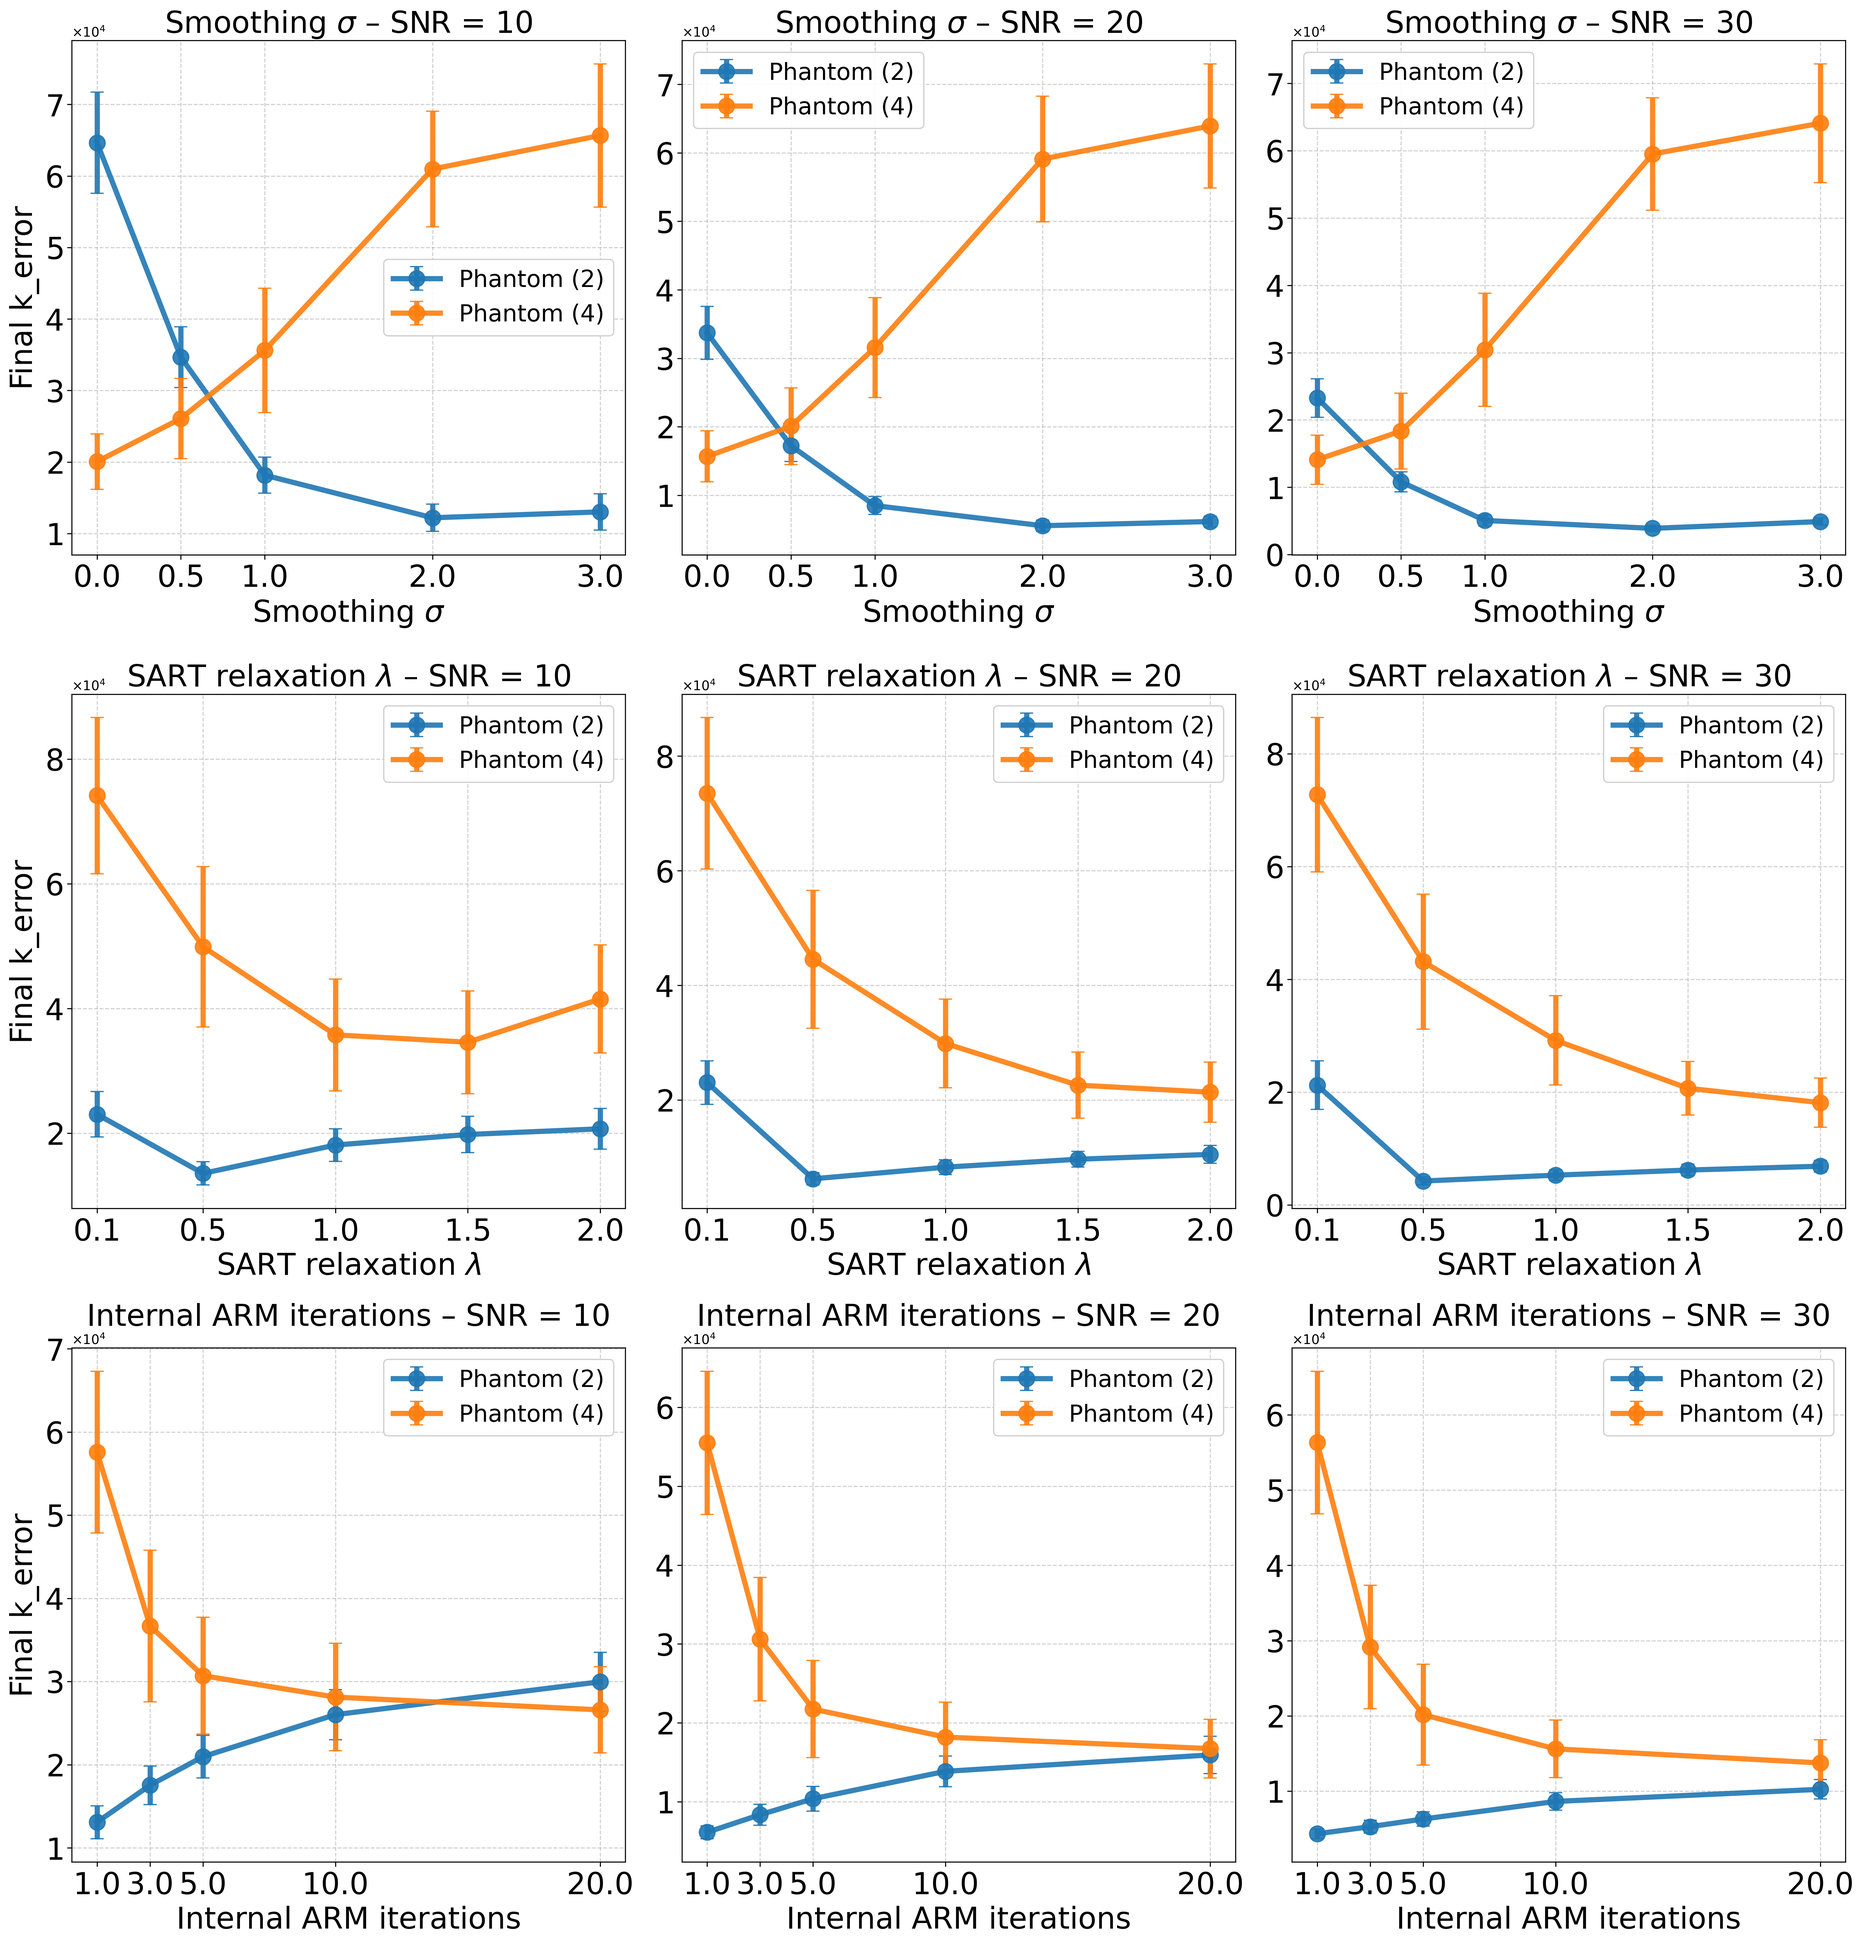
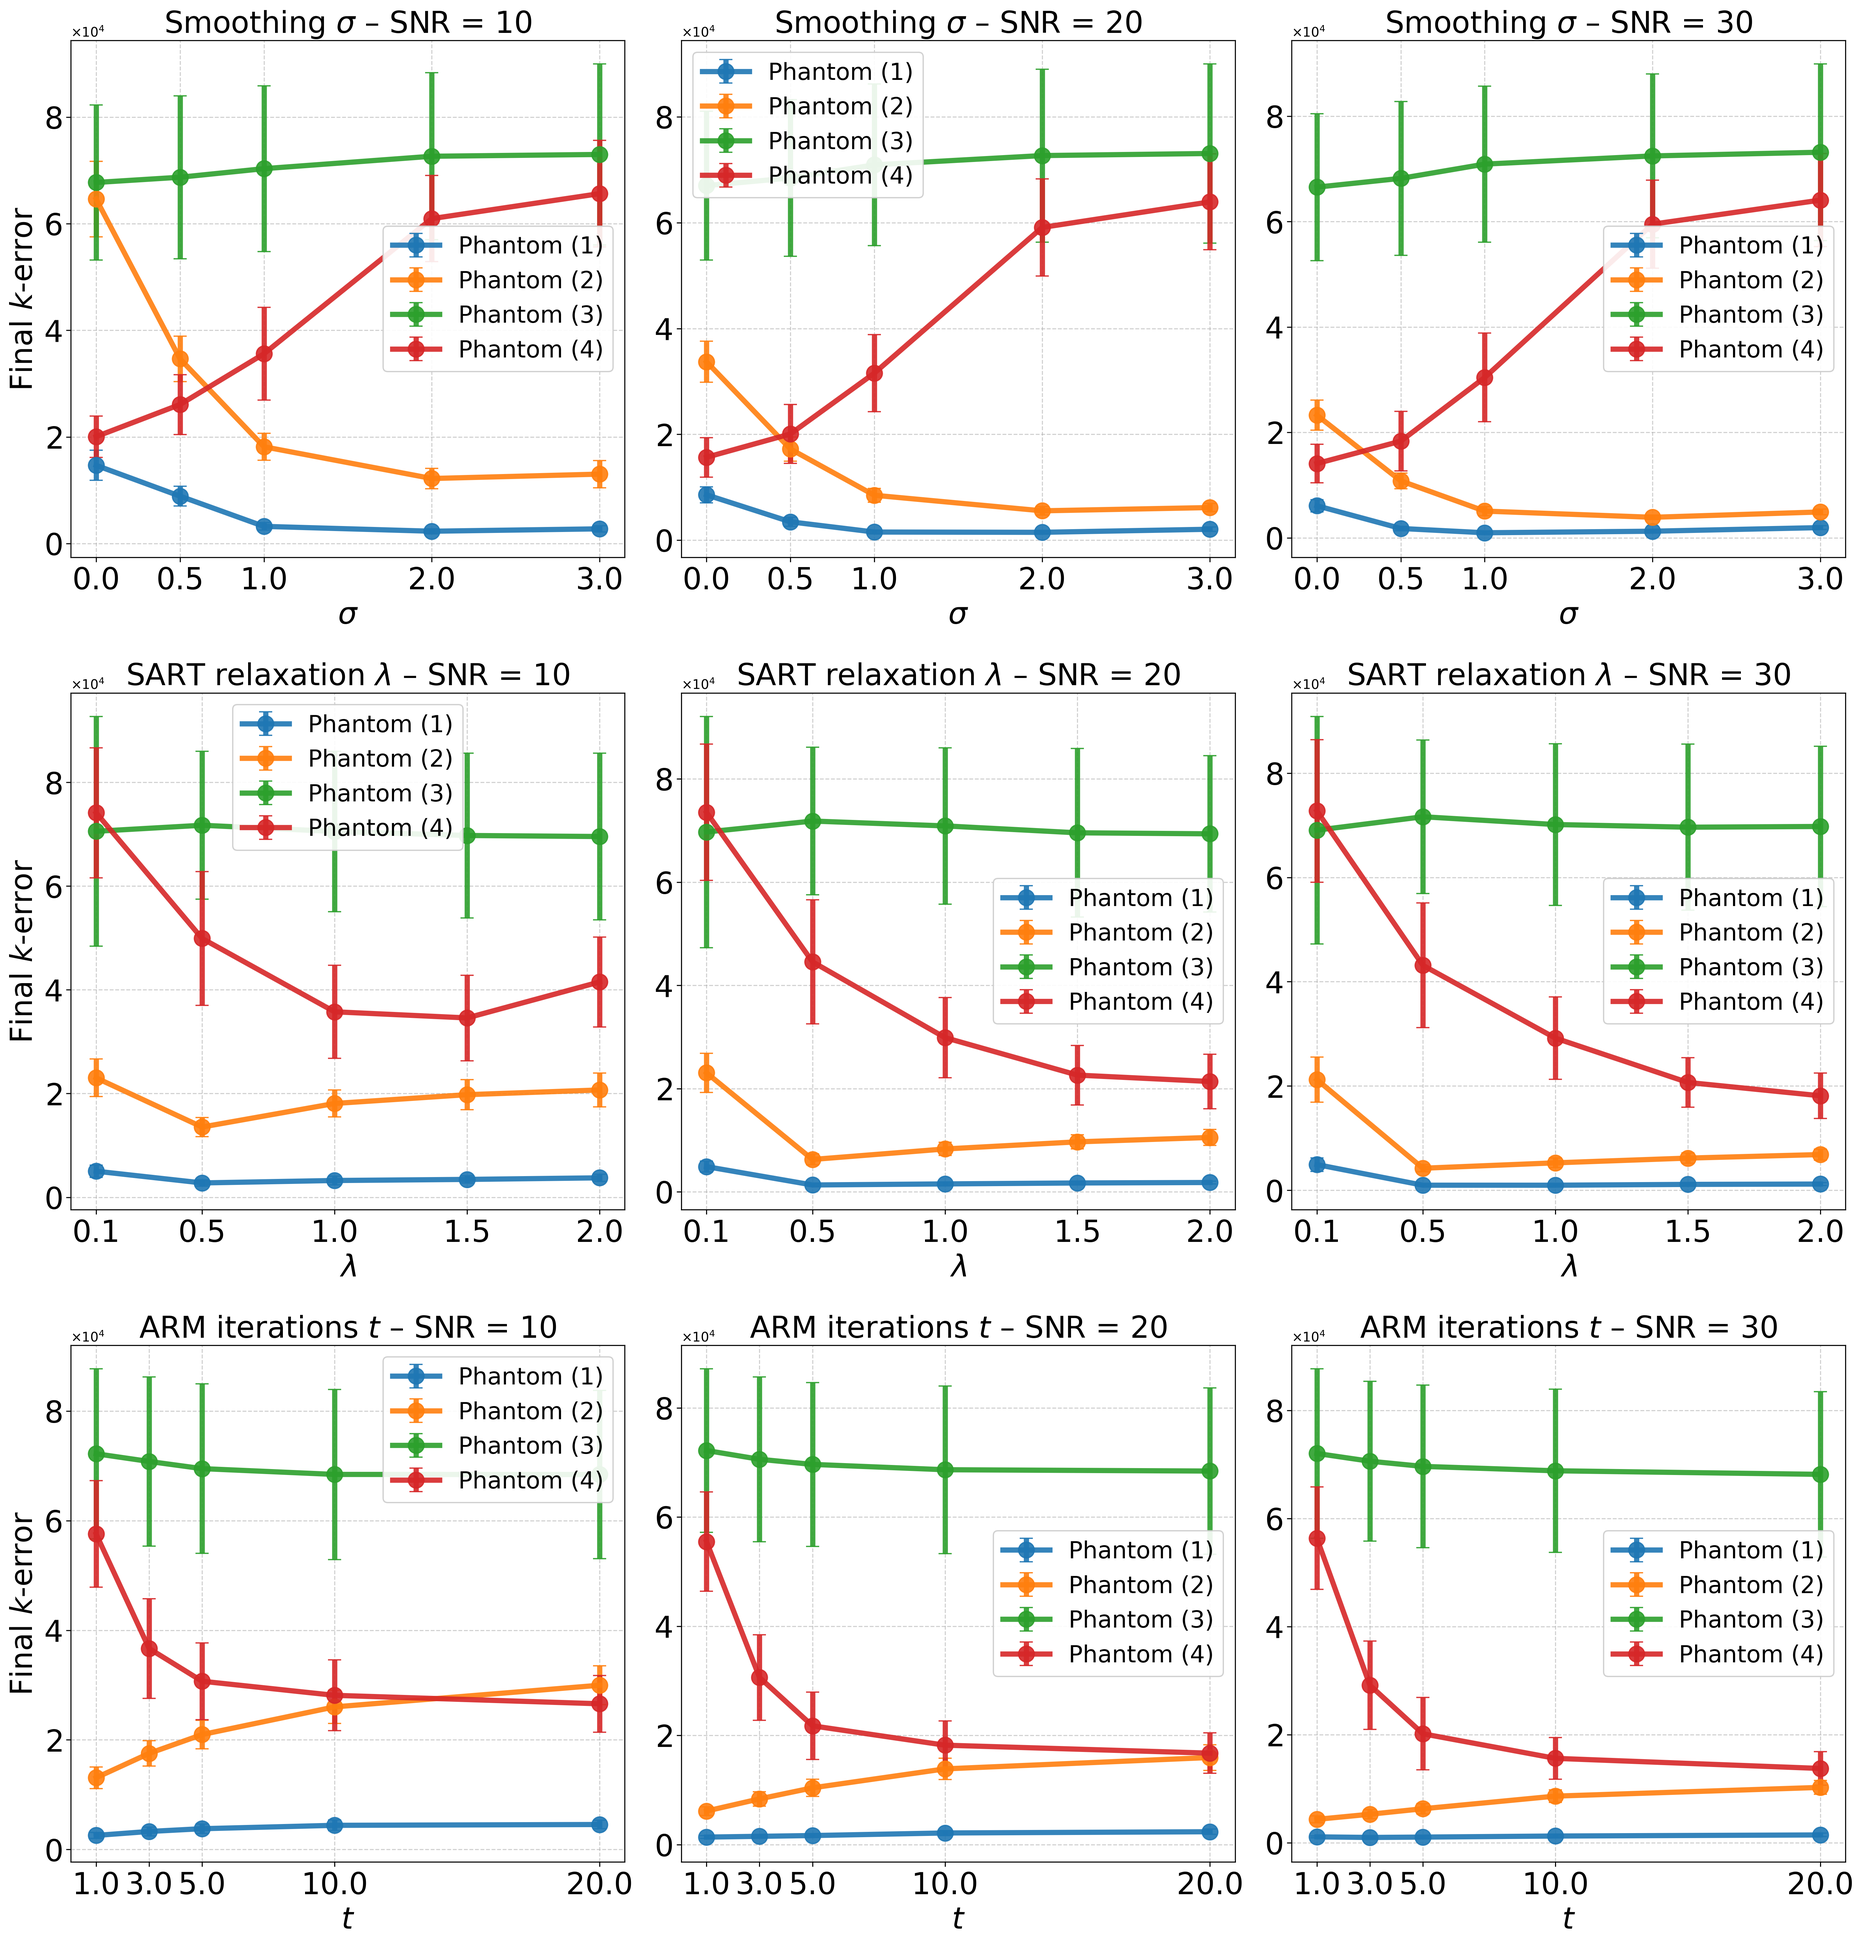
some changes

diff --git a/src/DART/ReconstructionAlgorithms.py b/src/DART/ReconstructionAlgorithms.py
@@ -122,98 +122,3 @@ def SART(sino_id: int,
         astra.projector.delete(local_projector_id)
 
     return reconstruction_img
-
-
-def SIRT(sino_id: int,
-         vol_geom: dict[str, dict],
-         projector_id: int,
-         min_constraint: int = 0,
-         max_constraint: int = 255,
-         vol_data: float | np.ndarray = 0,
-         iters: int = 200,
-         mask=None,
-         use_gpu: bool = False) -> np.ndarray:
-
-    rec_type = "SIRT_CUDA" if use_gpu else "SIRT"
-
-    rec_id = astra.data2d.create("-vol", vol_geom, data=vol_data)
-    alg_cfg: dict[str, Any] = astra.astra_dict(rec_type)
-    alg_cfg["ProjectorId"] = projector_id 
-    alg_cfg["ProjectionDataId"] = sino_id
-    alg_cfg["ReconstructionDataId"] = rec_id
-
-    if mask is None:
-        mask = np.ones((vol_geom['GridRowCount'], vol_geom['GridColCount'])) #type: ignore
-    mask_id = astra.data2d.create('-vol', vol_geom, mask)
-    alg_cfg['option'] = {
-        'ReconstructionMaskId': mask_id,
-        'MaxConstraint': max_constraint,
-        'MinConstraint': min_constraint
-    }
-    # Run
-    algorithm_id = astra.algorithm.create(alg_cfg)
-    astra.algorithm.run(algorithm_id, iters)
-    reconstruction_img = astra.data2d.get(rec_id)
-
-    # Clean up ASTRA objects
-    astra.algorithm.delete(algorithm_id)
-    astra.data2d.delete(rec_id)      
-    astra.data2d.delete(mask_id)
-
-    return reconstruction_img
-
-
-def FBP(vol_geom: dict[str, dict], 
-        sino_id: int, 
-        proj_geom: dict[str, dict],
-        sinogram: np.ndarray,
-        use_gpu: bool = False) -> tuple[int, np.ndarray]:
-
-    sino_id = astra.data2d.create('-sino', proj_geom, data=sinogram)
-    rec_id = astra.data2d.create('-vol', vol_geom, data=0)
-
-    # define FBP configuration parameters
-    alg_cfg: dict[str, Any] = astra.astra_dict('FBP_CUDA' if use_gpu else 'FBP')
-    alg_cfg['ProjectionDataId'] = sino_id 
-    alg_cfg['ReconstructionDataId'] = rec_id
-
-    if not use_gpu:
-        proj_id = astra.create_projector('linear', proj_geom, vol_geom)
-        alg_cfg['ProjectorId'] = proj_id
-
-    algorithm_id = astra.algorithm.create(alg_cfg)
-    astra.algorithm.run(algorithm_id)
-    rec = astra.data2d.get(rec_id)
-
-    astra.algorithm.delete(algorithm_id)
-    astra.data2d.delete(sino_id)
-    return rec_id, rec
-
-if __name__ == "__main__":
-    phantom = np.load("TestPhantoms/phantom_1/0.npy")
-    projector_id, sino_id, sinogram_img, vol_geom, proj_geom = Sinogram(
-                                                                        phantom=phantom,
-                                                                        n_detectors=512,
-                                                                        angles=np.linspace(0, np.pi, 25),
-                                                                        detector_spacing=1,
-                                                                        SNR=None,
-                                                                        )
-
-
-    reconstruction = SART(
-                          sino_id=sino_id,
-                          vol_geom=vol_geom, 
-                          vol_data=0, 
-                          projector_id=projector_id,
-                          iters=50,
-                          relaxation=1,
-                          projection_order="random",
-                          min_constraint=np.min(0),
-                          max_constraint=np.max(255),
-                          use_gpu=False,
-                          proj_geom=proj_geom,
-                          )
-    
-    plt.imshow(reconstruction)
-    plt.axis("off")
-    plt.savefig("SART_reconstruction")

diff --git a/PlotFigures/PlotExperiment1.py b/PlotFigures/PlotExperiment1.py
@@ -4,9 +4,7 @@ import numpy as np
 import matplotlib.pyplot as plt
 from typing import Dict, List, Tuple, Any
 
-# ============================================================================
-# GLOBAL PLOTTING PARAMETERS - Adjust these as needed
-# ============================================================================
+
 # Font sizes
 TITLE_SIZE = 30          # Size for subplot titles
 AXIS_LABEL_SIZE = 30     # Size for x and y axis labels
@@ -32,9 +30,7 @@ BAR_ALPHA = 1            # Transparency of bars
 # Image quality
 DPI = 300                # Resolution for saved figures
 
-# ============================================================================
-# Experiment configuration
-# ============================================================================
+
 BASE_RESULTS_DIR = "./Results"          # where Config.save_dir points to
 OUTPUT_DIR = os.path.join("Results", "Experiment_1")
 os.makedirs(OUTPUT_DIR, exist_ok=True)
@@ -75,9 +71,7 @@ PHANTOM_NAMES ={"phantom_1": 'Phantom (1)',
 PROJECTIONS = [10, 25]
 N_ITERS = 10
 
-# ============================================================================
-# Helper: load results and return the LAST k_error value from each run
-# ============================================================================
+
 def load_results(exp_type: str, param_val: Any, n_proj: int, phantom: str) -> List[float]:
     param_str = "None" if param_val is None else str(param_val)
     folder = os.path.join(BASE_RESULTS_DIR, exp_type, param_str, f"projections_{n_proj}")
@@ -100,9 +94,7 @@ def load_results(exp_type: str, param_val: Any, n_proj: int, phantom: str) -> Li
     
     return final_k_errors
 
-# ============================================================================
-# Plot all experiments in one large figure
-# ============================================================================
+
 def plot_all_experiments_combined():
     n_experiments = len(EXPERIMENTS)
     fig, axes = plt.subplots(n_experiments, 2, 

diff --git a/src/DART/RoundTo.py b/src/DART/RoundTo.py
@@ -2,9 +2,7 @@ import matplotlib.pyplot as plt
 import numpy as np
 import os
 
-from typing import Any
 from numpy.typing import NDArray
-from src.DART.ReconstructionAlgorithms import SIRT
 from src.DART.Sinograms import Sinogram
 from scipy.ndimage import gaussian_filter
 
@@ -41,40 +39,6 @@ def RoundTo(phantom: NDArray, graylevels: NDArray) -> NDArray:
     best_idx = np.argmin(diffs, axis=-1)                   # shape (H, W)
     return graylevels[best_idx]
 
-
-if __name__ == "__main__":
-    phantom_path = os.path.join("Test_phantoms", "Porouse_with_different_density.npz")
-    phantom_arrays = np.load(phantom_path)
-    lst = phantom_arrays.files
-    item = lst[0]
-    phantom = phantom_arrays[item]
-
-    projector_id, sino_id, sinogram_img, vol_geom, proj_geom = Sinogram(
-        phantom=phantom,
-        n_detectors=512,
-        angles=np.linspace(0, np.pi, 180),
-        detector_spacing=1
-        )
-    
-    reconstruction= SIRT(
-                            vol_data=0,
-                            vol_geom=vol_geom,
-                            projector_id=projector_id,
-                            sino_id=sino_id,
-                            min_constraint=0,
-                            max_constraint=255
-                            )
-    
-    np.save("Porouse_with_different_density", reconstruction)
-
-    rounded_recon = RoundTo(reconstruction, graylevels=np.unique(phantom))
-
-    fig, ax = plt.subplots(1, 2)
-    ax[0].imshow(phantom)
-    ax[1].imshow(rounded_recon)
-    ax[0].set_title("Original phantom")
-    ax[1].set_title("Rounded and reconstructed phantom")
-    plt.show()
 
 def ScaleTo(recon: NDArray, low_percentil: int=1, high_percentile: int=99, max_gray: int=255):
     low_val = np.percentile(recon, q=low_percentil)

diff --git a/PlotFigures/PlotExperiment2.py b/PlotFigures/PlotExperiment2.py
@@ -35,8 +35,8 @@ DPI = 300                # Resolution for saved figures
 # ============================================================================
 # Experiment configuration
 # ============================================================================
-BASE_RESULTS_DIR = "./Results2"          # where Config.save_dir points to
-OUTPUT_DIR = os.path.join("Results2", "Experiment_2")
+BASE_RESULTS_DIR = "./Results"          # where Config.save_dir points to
+OUTPUT_DIR = os.path.join("Results", "Experiment_2")
 os.makedirs(OUTPUT_DIR, exist_ok=True)
 
 # SNR values used in Experiment2
@@ -96,9 +96,7 @@ def load_results(exp_type: str, param_val: Any, snr: int, phantom: str) -> List[
             final_k_errors.append(k_error_list[-1])
     return final_k_errors
 
-# ============================================================================
-# Plot all experiments in one large figure
-# ============================================================================
+
 def plot_all_experiments_combined():
     n_experiments = len(EXPERIMENTS)
     fig, axes = plt.subplots(n_experiments, 3, 
@@ -196,9 +194,7 @@ def plot_all_experiments_combined():
     plt.savefig(save_path, dpi=DPI, bbox_inches='tight')
     print(f"Figure saved to {save_path}")
 
-# ============================================================================
-# Main function
-# ============================================================================
+
 def main():
     plot_all_experiments_combined()
 

diff --git a/src/DART/FreePixels.py b/src/DART/FreePixels.py
@@ -32,20 +32,3 @@ def ChooseFreePixels(phantom: np.ndarray, p: float) -> np.ndarray:
     return free_pixel_mask
 
 
-if __name__ == "__main__":
-    phantom_path = os.path.join("Test_phantoms", "multiple_shapes_and_graylevels.npz")
-    phantom_arrays = np.load(phantom_path)
-    lst = phantom_arrays.files
-    item = lst[0]
-    phantom = phantom_arrays[item]
-
-    time0 = time.time()
-    edges = ChooseFreePixels(phantom=phantom, p=0.01)
-    print(f"Free detection took {(time.time() - time0):.3f}s")
-
-    fig, ax = plt.subplots(1, 2)
-    ax[0].imshow(phantom)
-    ax[1].imshow(edges)
-    ax[0].set_title("Originall phantom")
-    ax[1].set_title("Free pixels")
-    plt.show()

diff --git a/src/DART/EdgeDetector.py b/src/DART/EdgeDetector.py
@@ -26,20 +26,3 @@ def EdgeDetection(phantom: np.ndarray) -> np.ndarray:
 
     return max_f != min_f
 
-if __name__ == "__main__":
-    phantom_path = os.path.join("Test_phantoms", "granular_phantom_single_grayvalues.npz")
-    phantom_arrays = np.load(phantom_path)
-    lst = phantom_arrays.files
-    item = lst[0]
-    phantom = phantom_arrays[item]
-    
-    time0 = time.time()
-    edges = EdgeDetection(phantom=phantom)
-    print(f" Edge detection took {(time.time() - time0):.3f}s")
-
-    fig, ax = plt.subplots(1, 2)
-    ax[0].imshow(phantom)
-    ax[1].imshow(edges)
-    ax[0].set_title("Originall phantom")
-    ax[1].set_title("Edges")
-    plt.show()

diff --git a/PlotFigures/CompareSmoothing.py b/PlotFigures/CompareSmoothing.py
@@ -104,7 +104,8 @@ ax[2].imshow(smooth_reconstruction, cmap='gray')
 ax[2].set_title(r"$\sigma$=1")
 plt.tight_layout()
 plt.savefig("CompareSmoothing_phantom1_2")
-# plt.show()
+
+
 # sigma controls the width of your kernel (higher = smoother/more blurred density)
 kernel_size = 3 
 
